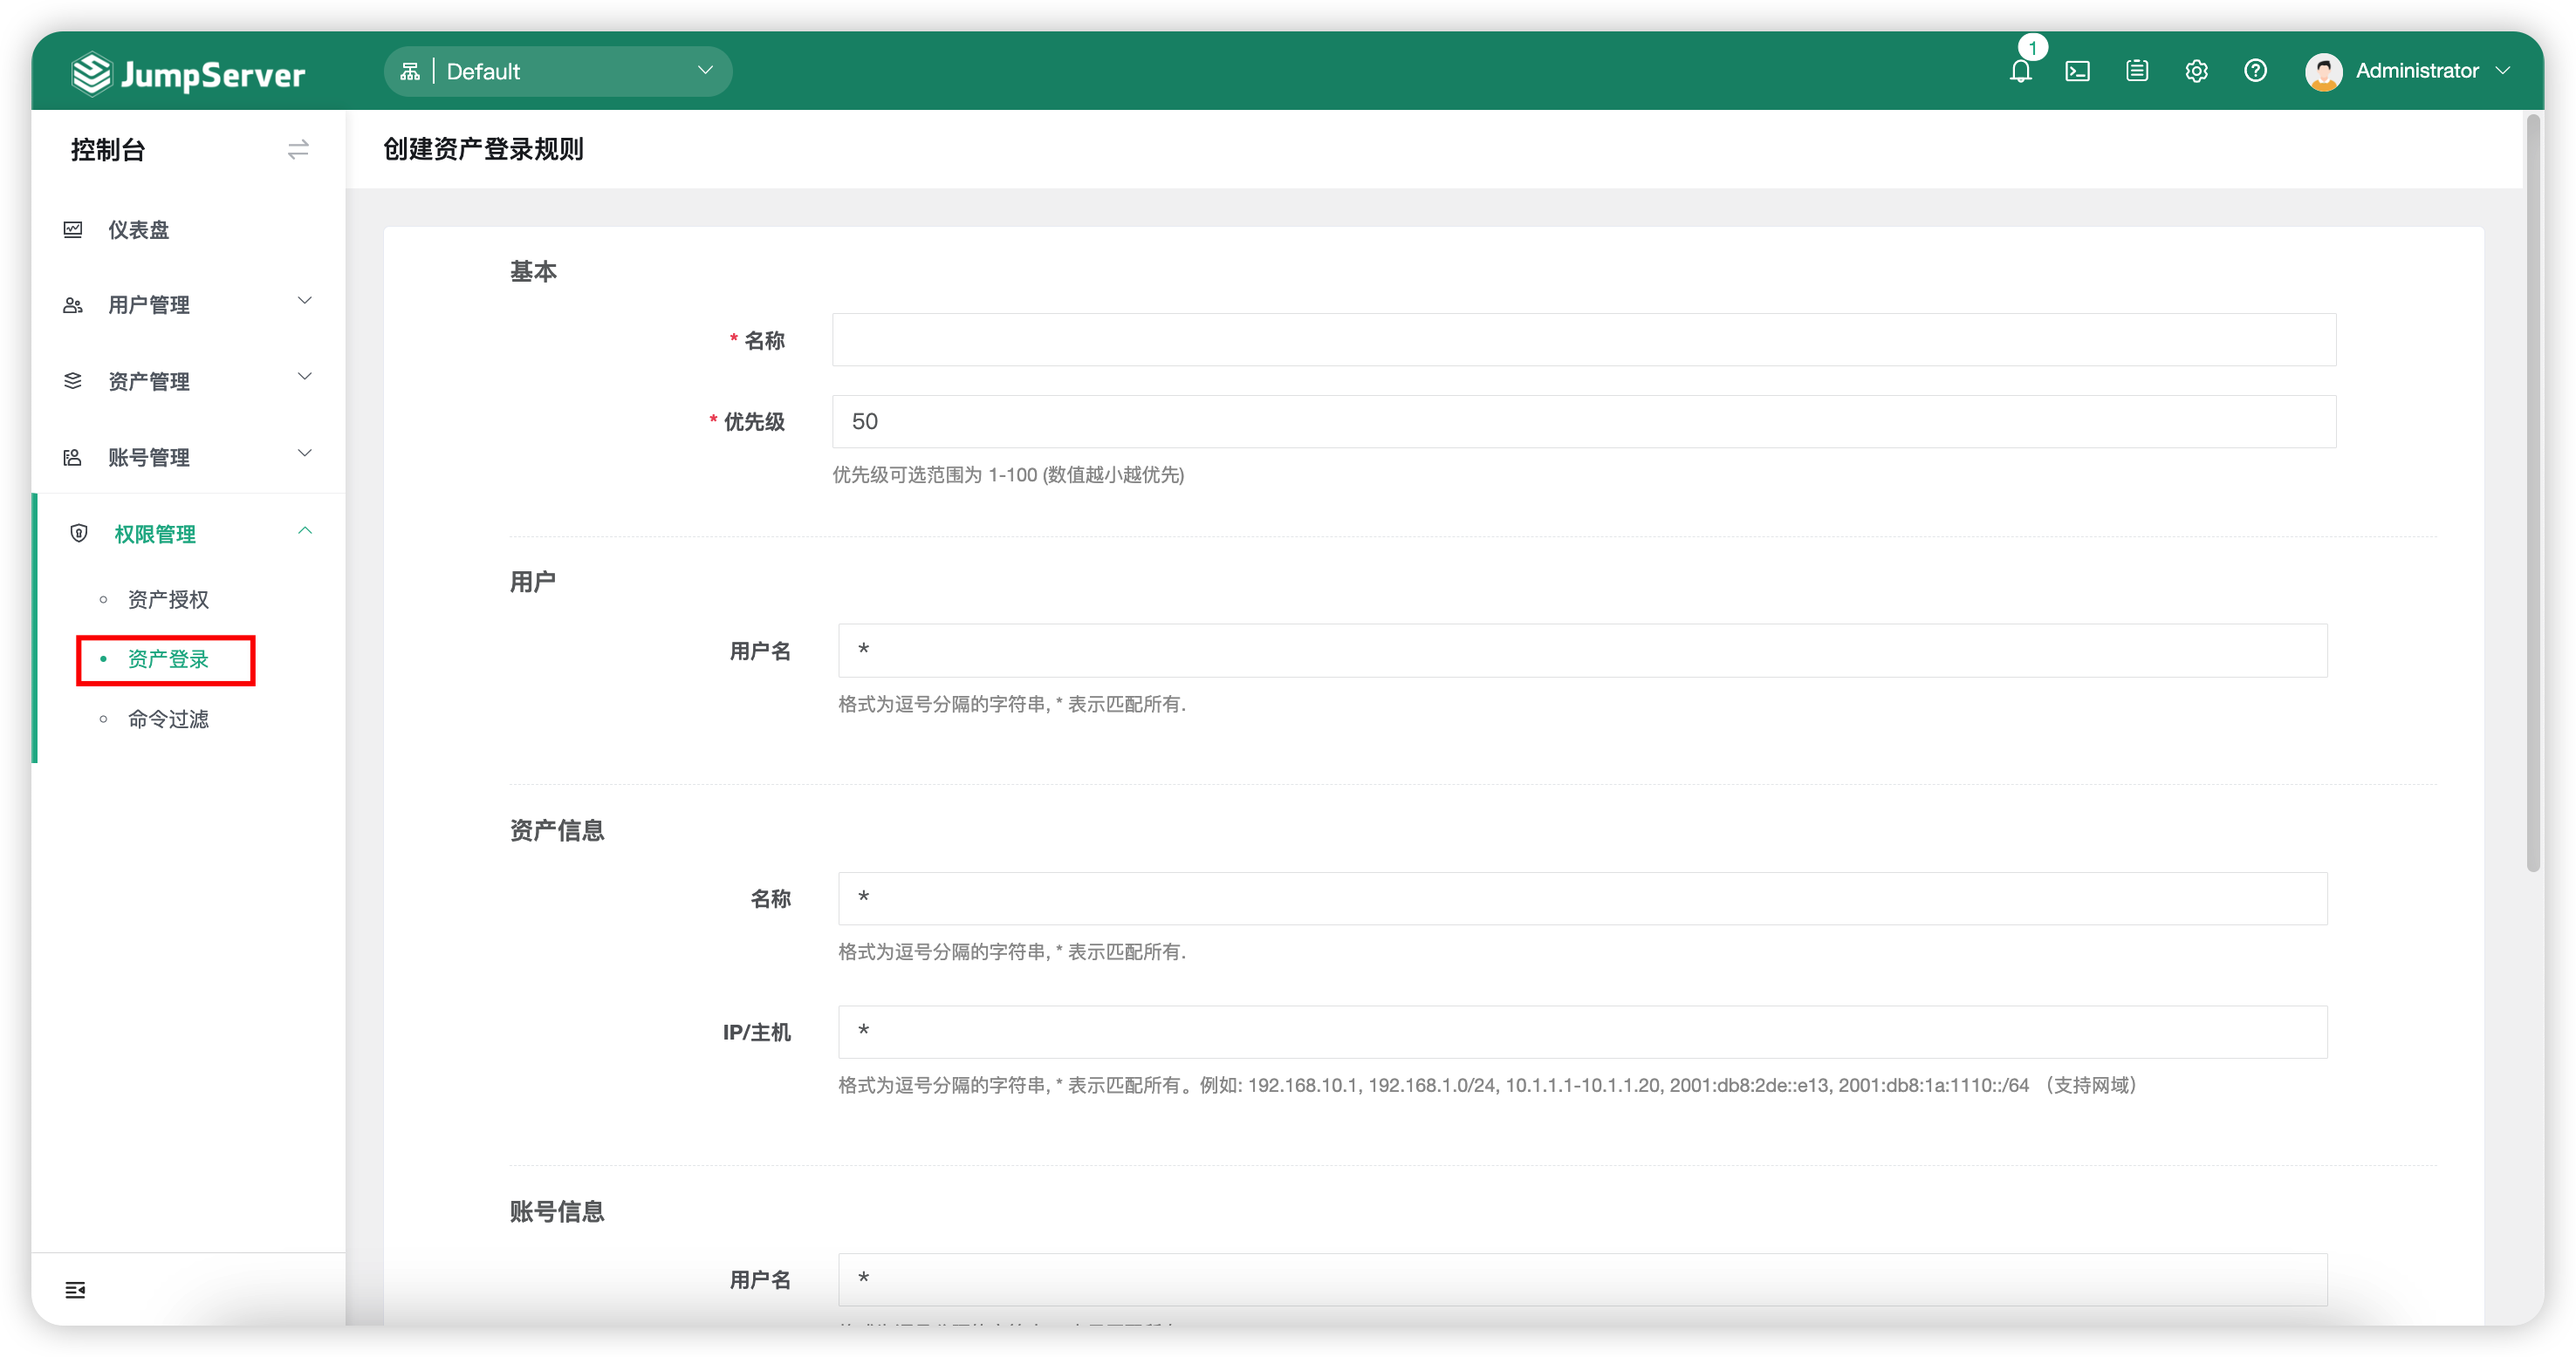
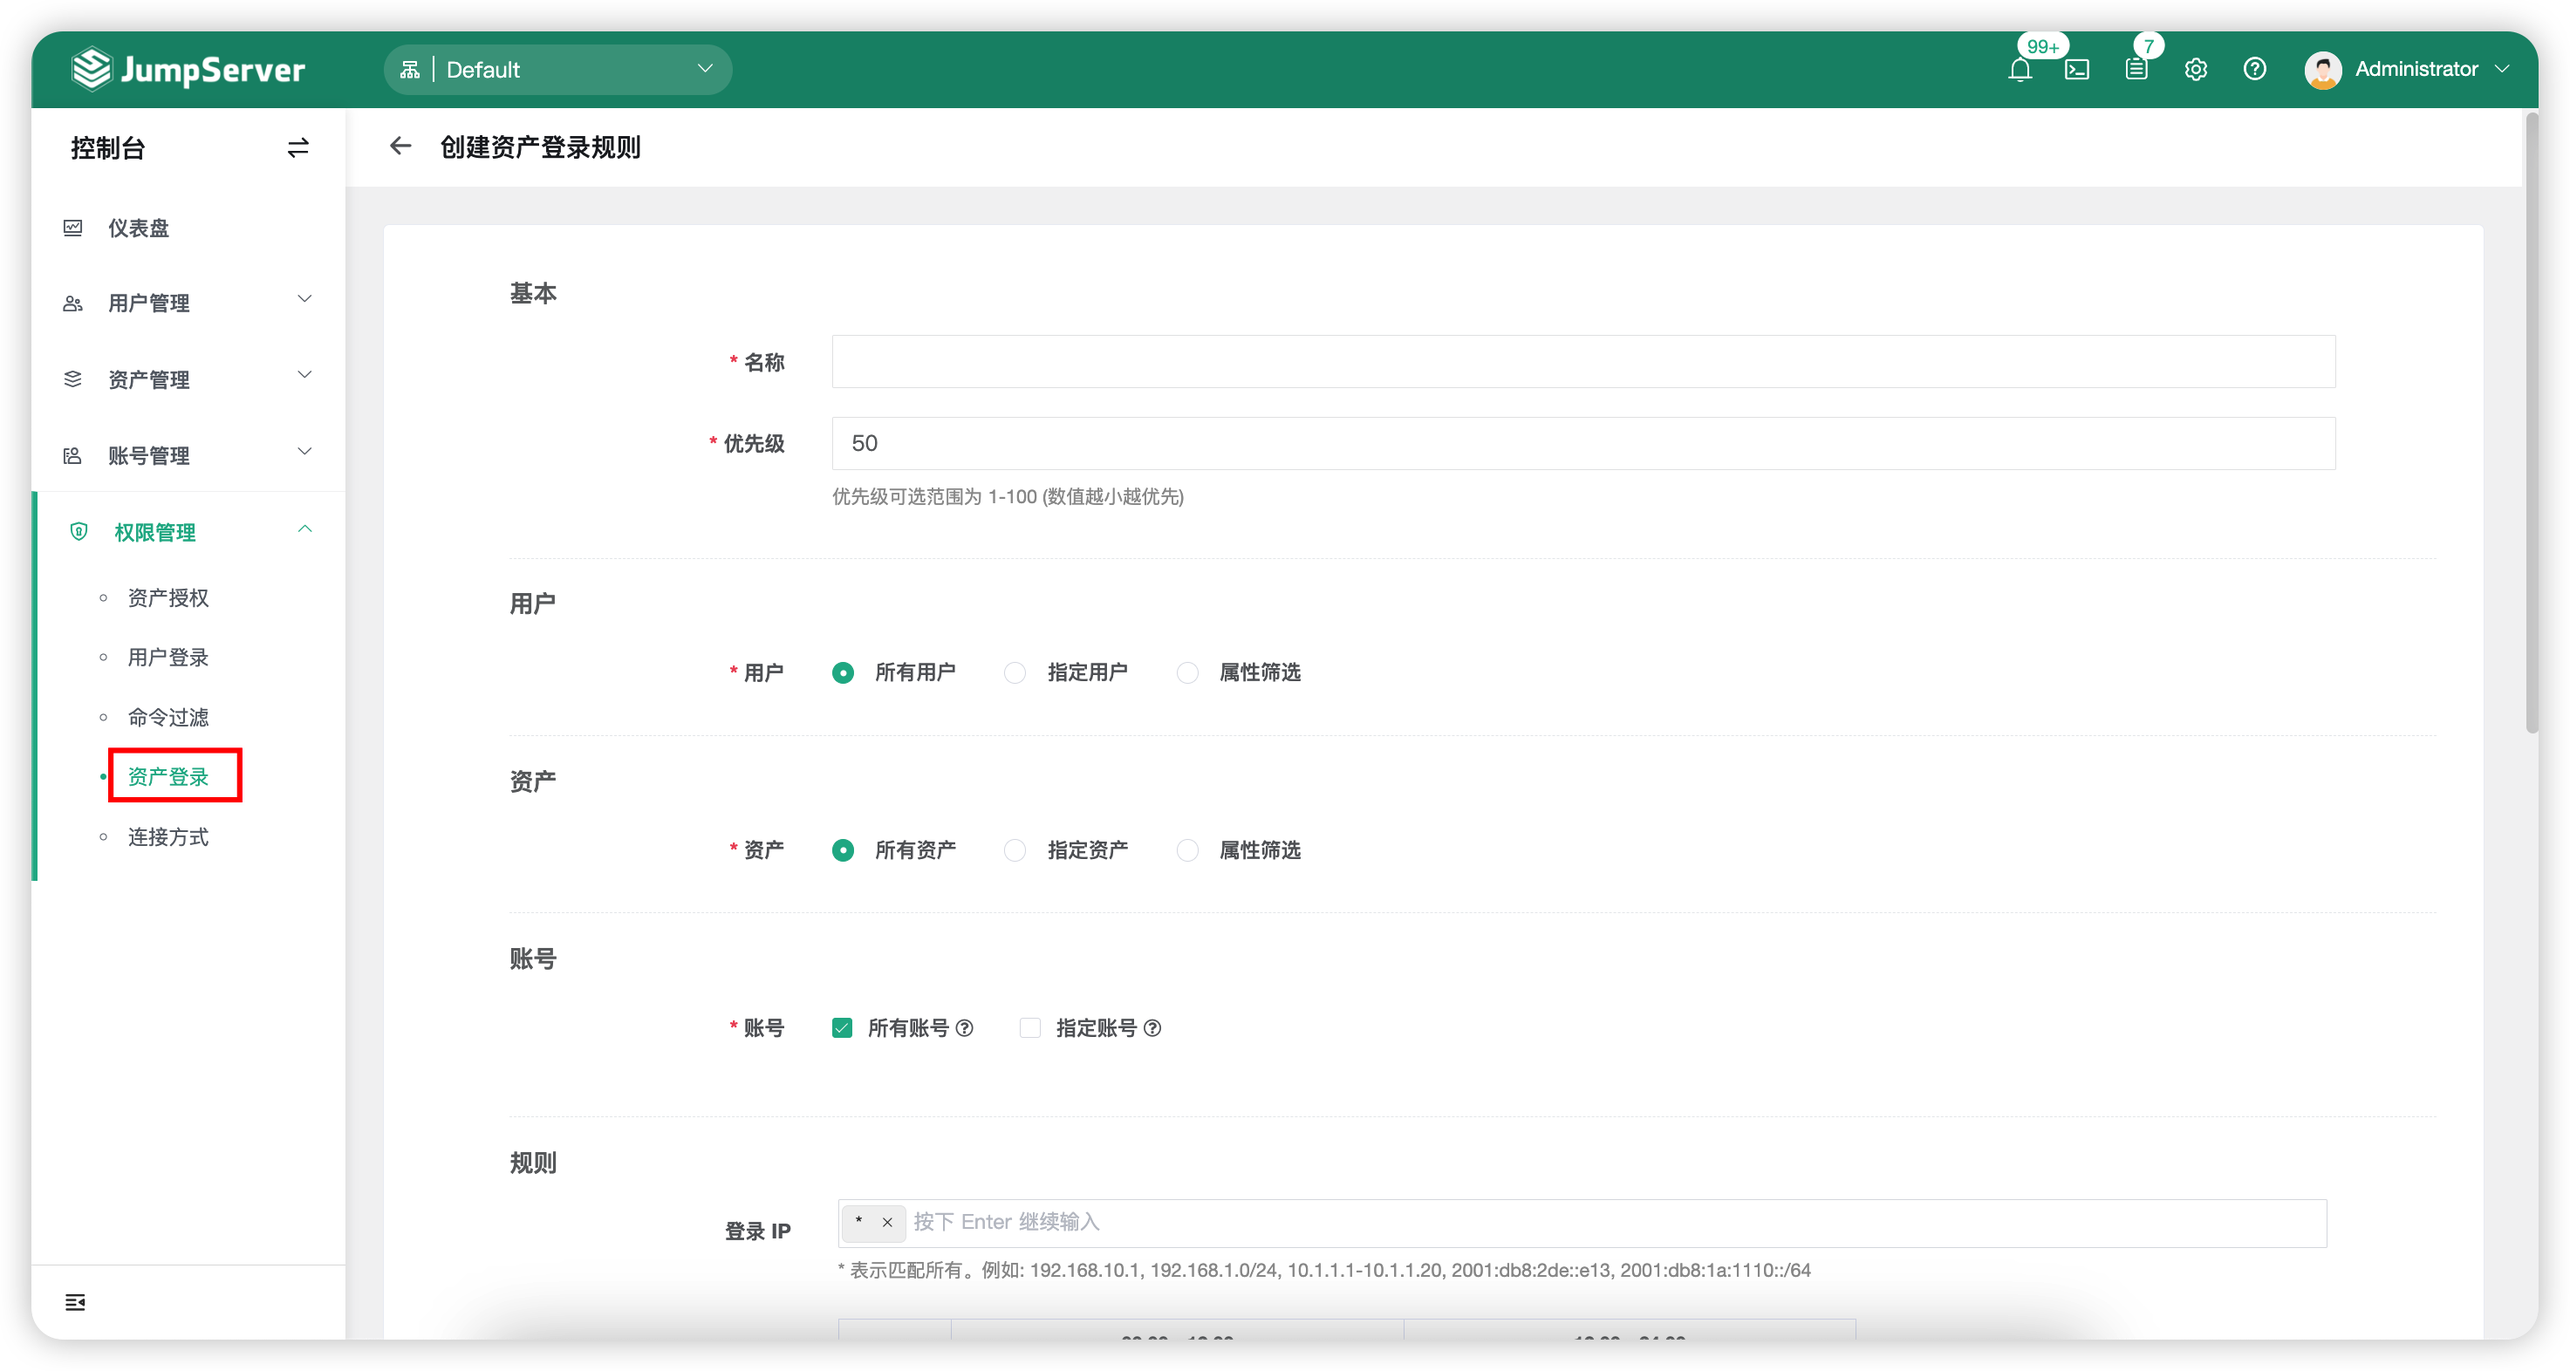
perf: 新增连接方式、资产登陆模块内容

diff --git a/docs/guide/admin/permission/host_acls.md b/docs/guide/admin/permission/host_acls.md
@@ -1,11 +1,10 @@
 # 资产登录
-!!! note "注：登录复核为 JumpServer 企业版功能。"
+!!! note "注：资产登录复核为 JumpServer 企业版功能。"
 
 ## 1 功能简述
 !!! tip ""
     - JumpServer 支持对资产登录进行二次复核功能。
     - 依据安全策略，系统可以针对 JumpServer 登录用户、资产信息、账号信息三个维度对资产的登录进行限制，当设置二次复核动作时，执行审批人审批资产登录。
-    - JumpServer 登录用户、资产信息、账号信息、动作四种限制可以组合使用。
 
 ## 2 资产登录规则的创建
 !!! tip ""
@@ -21,8 +20,9 @@
     | ------- | ------------------------------------ |
     | 名称 | 资产登录规则的名称。 |
     | 优先级 | 资产登录规则的优先级，优先级可选范围为1~100，数值越小规则匹配越优先，默认为50。 |
-    | 用户-用户名 | 当使用该用户登录 JumpServer 堡垒机并连接下面选项的资产时匹配该资产登录规则。 |
-    | 资产信息名称 | 在进行连接资产操作时，资产登录规则会匹配该资产信息名称。 |
-    | IP/主机 | 当连接该资产 IP 时匹配该资产登录规则。 |
-    | 账号信息-用户名 | 当连接资产使用该用户名时匹配该资产登录规则。 |
-    | 动作 | 匹配到该资产登录规则时做出的动作。 <br> A."拒绝"：拒绝登录资产； <br>B."接收"：允许登录资产； <br>C."审批"：经过设置的审批人审批允许或者拒绝登录。 |
+    | 用户 | A."所有用户"：所有用户资源； <br> B."指定用户"：指定用户资源； <br> C."属性筛选"：根据属性名来匹配属性值筛选目标资源。 |
+    | 资产 | A."所有资产"：所有资产资源； <br> B."指定资产"：指定资产资源； <br> C."属性筛选"：根据属性名来匹配属性值筛选目标资源。 |
+    | 帐号 | A."所有帐号"：所有帐号资源； <br> B."指定帐号"：指定帐号资源。 |
+    | IP组 | 限制资产登录的IP地址。 |
+    | 时段 | 限制资产登录的时间段。 |
+    | 动作 | 匹配到该资产登录规则时做出的动作。 <br>A."拒绝"：拒绝登录资产； <br>B."接收"：允许登录资产； <br>C."审批"：经过设置的审批人审批允许或者拒绝登录。

diff --git a/docs/guide/admin/permission/connect_method_acls.md b/docs/guide/admin/permission/connect_method_acls.md
@@ -1,0 +1,25 @@
+# 连接方式
+!!! note "注：连接方式控制为 JumpServer 企业版功能。"
+
+## 1 功能简述
+!!! tip ""
+    - JumpServer 支持在资产连接时进行连接方式的控制。
+    - 通过连接方式过滤，您可以控制用户是否可以使用某种连接方式登录到资产上。根据您设定的规则，某些连接方式可以被放行，而另一些连接方式则被禁止。
+
+## 2 连接方式控制规则的创建
+!!! tip ""
+    - 点击`权限管理`-`连接方式`页面的`创建`按钮，填写连接方式控制规则的信息。
+![connect_method_acls01](../../../img/connect_method_acls01.png)
+
+!!! tip ""
+    - 详细参数说明：
+
+!!! tip ""
+
+    | 参数    |                说明                  |
+    | ------- | ------------------------------------ |
+    | 名称 | 连接方式控制规则的名称。 |
+    | 优先级 | 连接方式控制规则的优先级，优先级可选范围为1~100，数值越小规则匹配越优先，默认为50。 |
+    | 用户 | A."所有用户"：所有用户资源； <br> B."指定用户"：指定用户资源； <br> C."属性筛选"：根据属性名来匹配属性值筛选目标资源。 |
+    | 连接方式 | JumpServer 提供的资产连接方式，常见的有：Web Cli、Web SFTP、SSH、Web GUI、数据库客户端等 |
+    | 动作 | 匹配到连接方式控制规则时做出的动作。 <br>A."拒绝"：拒绝使用规则中限制的连接方式。 |

diff --git a/docs/guide/admin/permission/user_acls.md b/docs/guide/admin/permission/user_acls.md
@@ -1,0 +1,25 @@
+# 用户登录
+
+## 1 功能简述
+!!! tip ""
+    - JumpServer 支持对用户登录进行二次复核功能。
+    - 依据安全策略，系统可以针对 JumpServer 登录用户属性来对用户的登录进行限制，当设置二次复核动作时，执行审批人审批用户登录。
+
+## 2 用户登录规则的创建
+!!! tip ""
+    - 点击`权限管理`-`用户登录`页面的`创建`按钮，填写用户登录规则的信息。
+![user_acls01](../../../img/user_acls01.png)
+
+!!! tip ""
+    - 详细参数说明：
+
+!!! tip ""
+
+    | 参数    |                说明                  |
+    | ------- | ------------------------------------ |
+    | 名称 | 用户登录规则的名称。 |
+    | 优先级 | 用户登录规则的优先级，优先级可选范围为1~100，数值越小规则匹配越优先，默认为50。 |
+    | 用户 | A."所有用户"：所有用户资源； <br> B."指定用户"：指定用户资源； <br> C."属性筛选"：根据属性名来匹配属性值筛选目标资源。 |
+    | IP组 | 限制用户登录的IP地址。 |
+    | 时段 | 限制用户登录的时间段。 |
+    | 动作 | 匹配到该用户登录规则时做出的动作。 <br>A."拒绝"：拒绝用户登录； <br>B."接收"：允许用户登录； <br>C."审批"：经过设置的审批人审批允许或者拒绝登录。 |
